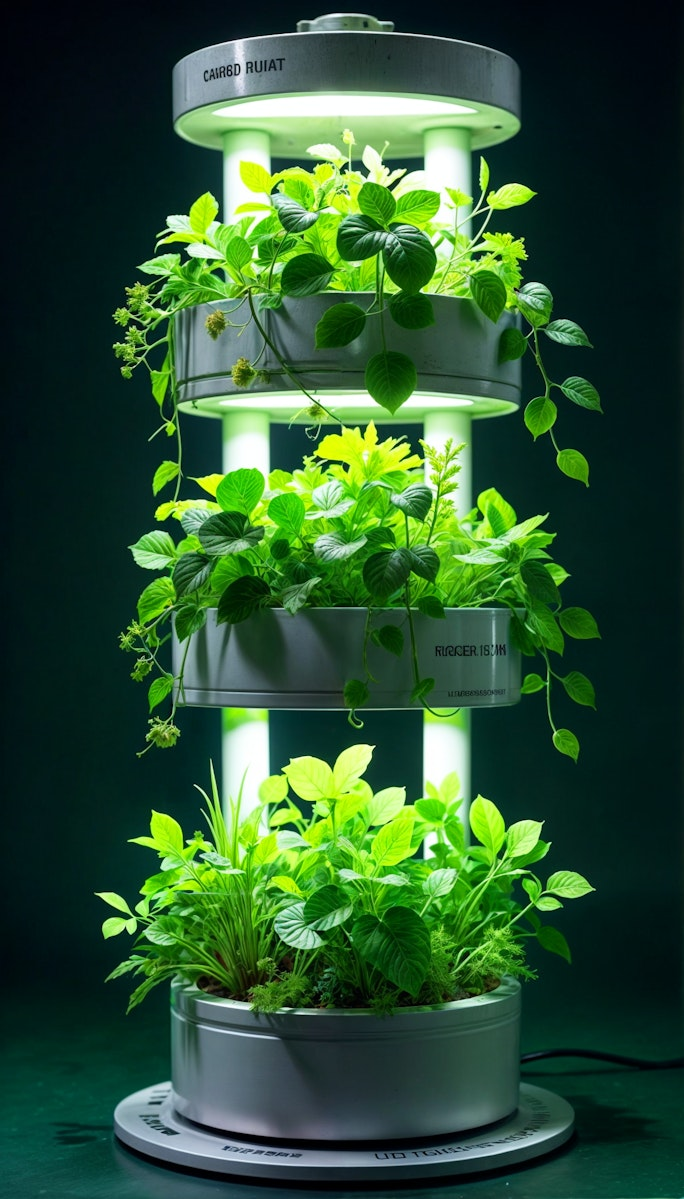
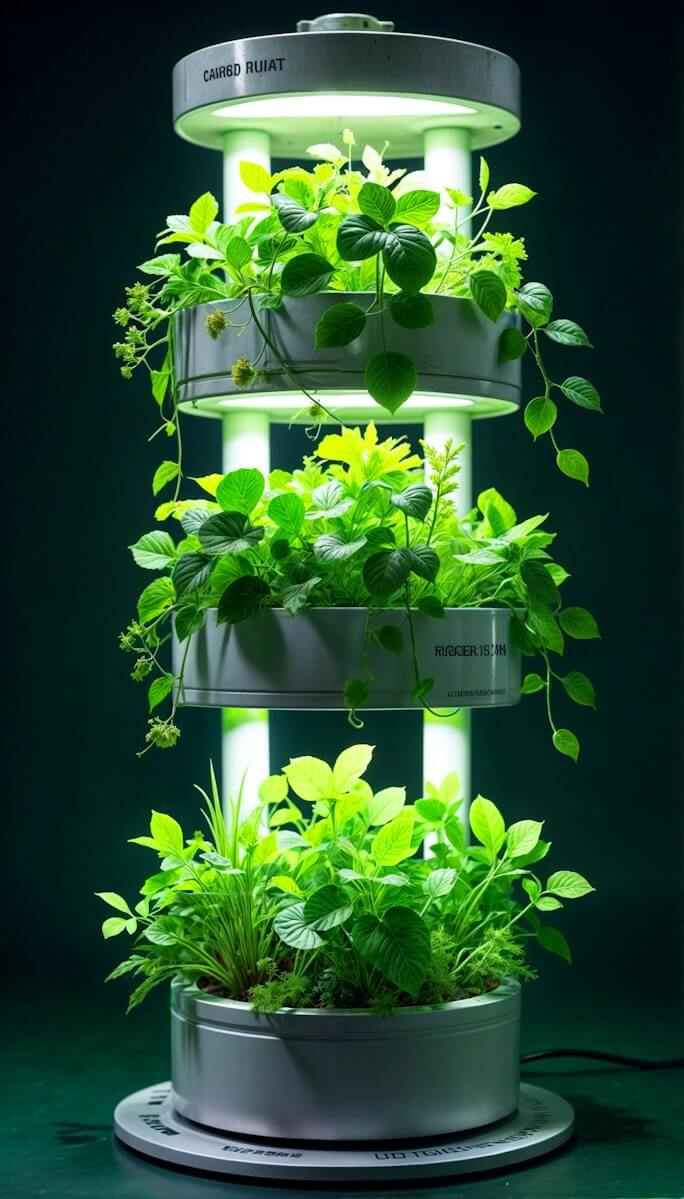
Reduced image sizes for performance

diff --git a/index.css b/index.css
@@ -180,7 +180,7 @@ h6 {
 .hero-image {
   width: 100%;
   height: clamp(250px, 50vw, 400px);
-  background: url("./img/main-bg.png") no-repeat center center;
+  background: url("./img/main-bg.webp") no-repeat center center;
   background-size: cover;
   background-position: center;
   object-fit: cover;
